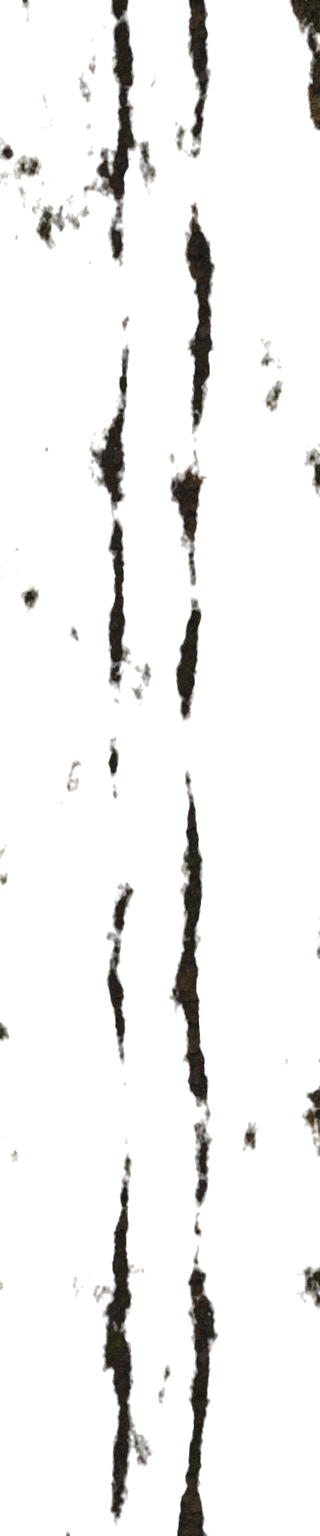
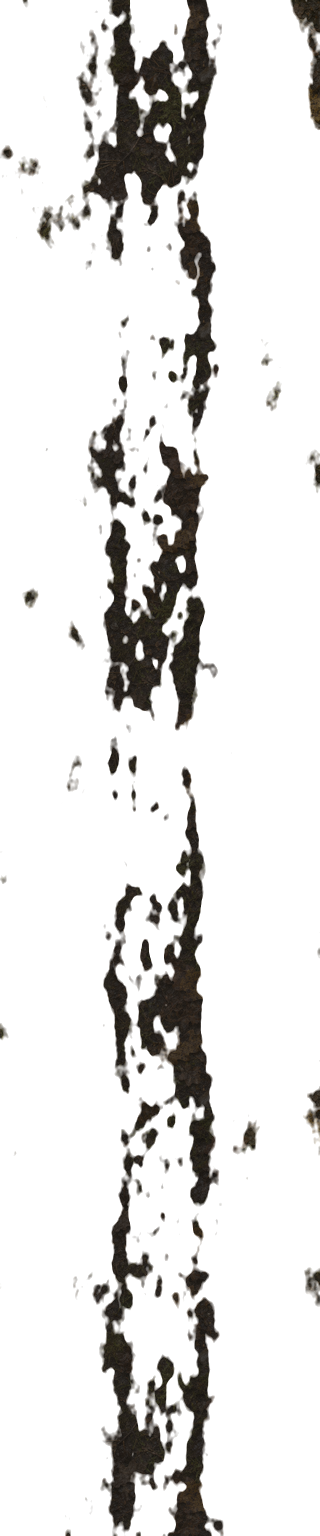
zona: open the three-quarter view of the last bus and finish the ground beyond the lane

diff --git a/razlom-zona/tools/storm_sky.py b/razlom-zona/tools/storm_sky.py
@@ -45,15 +45,15 @@ def bolt(points,width,level):
     pen.line(points,fill=level,width=width)
 def xy(lon,elev):
     return ((lon+np.pi)/(2*np.pi)*w,(1.57-elev)/3.14*h)
-hub=xy(.06,.43)
+hub=xy(.145,.398)
 for line,width,level in [
-    ([xy(-.67,.88),xy(-.40,.69),xy(-.27,.65),xy(-.12,.53),hub,xy(.22,.48),xy(.39,.59),xy(.62,.67)],2,255),
-    ([hub,xy(.025,.31),xy(-.005,.28),xy(-.04,.19)],1,252),
-    ([xy(.39,.59),xy(.42,.73),xy(.58,.83)],1,185),
-    ([xy(-.27,.65),xy(-.32,.77),xy(-.46,.83)],1,135)]:
+    ([xy(-.84,.64),xy(-.55,.61),xy(-.31,.53),xy(-.09,.52),hub,xy(.29,.46),xy(.49,.50),xy(.73,.62)],1,215),
+    ([hub,xy(.125,.31),xy(.068,.28),xy(.051,.19)],1,252),
+    ([xy(.49,.50),xy(.52,.63),xy(.64,.71)],1,185),
+    ([xy(-.31,.53),xy(-.36,.59),xy(-.47,.61)],1,135)]:
     bolt(line,width,level)
 rgb=np.array(base,dtype=float)
-for radius,color in [(13,[103,0,85]),(4,[142,11,108]),(1.3,[240,60,162]),(0,[245,202,233])]:
+for radius,color in [(9,[73,0,64]),(3,[120,11,99]),(1,[182,48,140]),(0,[228,179,223])]:
     mask=np.asarray(glow.filter(ImageFilter.GaussianBlur(radius)),dtype=float)/255
     rgb+=mask[...,None]*color
 Image.fromarray(np.clip(rgb,0,255).astype('uint8')).save(out/'storm.jpg',quality=91)

diff --git a/razlom-zona/tools/build_last_bus.py b/razlom-zona/tools/build_last_bus.py
@@ -26,7 +26,14 @@ for slot,color in enumerate(colors):
         rust=np.clip(3.7*(.32*Y/N+.9*stain+.11*noise-.38),0,1)
         rgb=rgb*(1-rust[:,:,None])+np.array([92,59,40])*rust[:,:,None]
     if slot==6:
-        rgb+=((1-Y/N)*24+streak)[:,:,None]
+        # Opaque dusty glazing: bands of reflected sky above a dark tree line.
+        ridge=62+7*np.sin(X/17)+5*np.sin(X/6)+noise[0,:]*2
+        sky=np.clip((ridge-Y)/21,0,1)
+        rgb=np.array([27,38,42])+sky[:,:,None]*[47,43,43]+(streak+noise*1.8)[:,:,None]
+    if slot in [10,11]:
+        radial=np.sqrt(((X-63)/62)**2+((Y-61)/62)**2)
+        ridges=6*np.cos(X*.62)+8*np.cos(radial*56)
+        rgb=np.array([176,166,135] if slot==11 else [169,96,42])+(29*(1-radial)+ridges+noise*1.6)[:,:,None]
     if slot==4:
         rgb+=np.where(((X+(Y//5)*2)%12)<2,-13,0)[:,:,None]
     tile=Image.fromarray(np.uint8(np.clip(rgb,0,255)))

diff --git a/razlom-zona/tools/road_surface.py b/razlom-zona/tools/road_surface.py
@@ -24,7 +24,9 @@ rgb=ground*(1-grass[...,None])+leaves*grass[...,None]
 swatch=Image.open(Path(__file__).parent/'sources/zalesye_surfaces.jpg').crop((512,512,1024,1024)).resize((256,256),Image.Resampling.LANCZOS)
 detail=np.asarray(swatch)[y%256,x%256,:].astype(float)
 rgb=rgb*.47+detail*(.38+.19*grass[...,None])
-wet=np.clip((rut*.89+.29*wide+.11*rough+.04*grit-.60)*4.1,0,1)
+basin=np.exp(-((x-159-bend)/63)**2)*(.47+.24*np.sin(y/76)+.16*rough)
+wet=np.clip((rut*.64+basin+.28*wide+.1*rough+.035*grit-.64)*5.2,0,1)
+swatch.save(Path(__file__).resolve().parents[1]/'assets/village/leaf_litter.jpg', quality=90)
 rgb*=(1-wet[...,None]*.40)
 rgba=np.dstack([np.clip(rgb,0,255),wet*255]).astype('uint8')
 Image.fromarray(rgba).save(Path(__file__).resolve().parents[1]/'assets/village/road.png')
